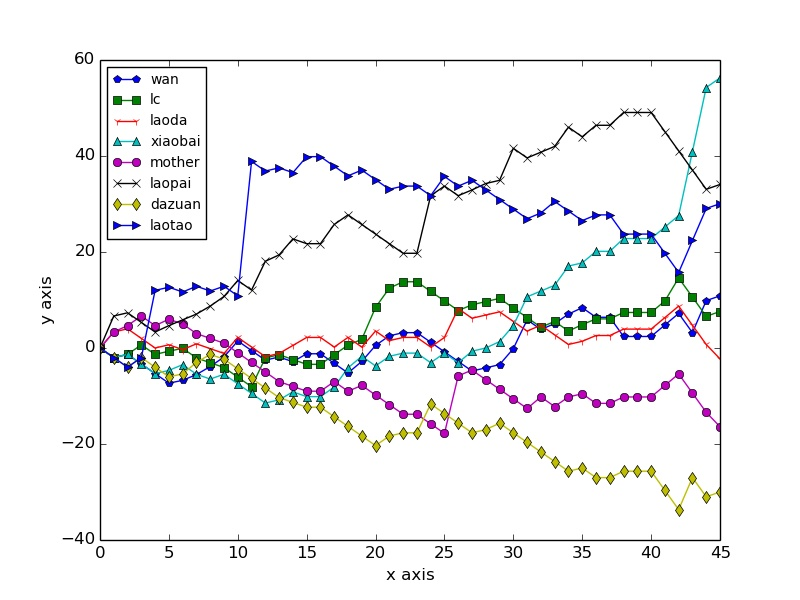
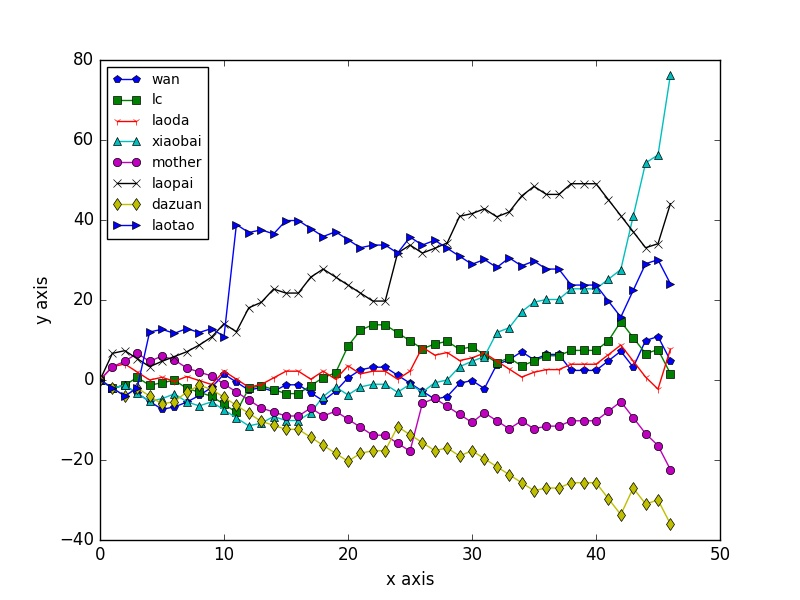
update

diff --git a/README.md b/README.md
@@ -1,23 +1,43 @@
 # E cup guess competition report
 ## real-time ranking
-2016-07-01 14:10:51
+2016-07-02 12:01:49
 
 |rank|name|score|win|loss|
 |:---:|:---:|:---:|:---:|:---:|
-|1|xiaobai|56.27|58%|24%|
-|2|laopai|34.07|50%|32%|
-|3|laotao|30.07|37%|46%|
-|4|wan|10.87|46%|37%|
-|5|lc|7.60|47%|36%|
-|6|laoda|-2.27|44%|38%|
-|7|mother|-16.40|31%|51%|
-|8|dazuan|-30.00|26%|57%|
+|1|xiaobai|76.27|59%|24%|
+|2|laopai|44.07|51%|32%|
+|3|laotao|24.07|36%|47%|
+|4|laoda|7.73|46%|37%|
+|5|wan|4.87|45%|38%|
+|6|lc|1.60|46%|37%|
+|7|mother|-22.40|30%|52%|
+|8|dazuan|-36.00|25%|58%|
 
 ## Pond
-528.80
+518.80
 
 ## History
 ![image](https://github.com/Anserw/E_Cup/blob/master/plot.jpg)
+### 2016070203 Welsh 3 : 1 Belgium
+- handicap: 0.5 / 1
+- scorer: laotao
+- owners:
+ - Welsh: xiaobai
+ - Belgium: lc
+
+
+|name|guess|score change|
+|:---:|:---:|:---:|
+|wan|Belgium|-6.00|
+|lc|Belgium|-6.00|
+|laoda|Welsh|10.00|
+|xiaobai|Welsh|20.00|
+|mother|Belgium|-6.00|
+|laopai|Welsh|10.00|
+|dazuan|Belgium|-6.00|
+|laotao|Belgium|-6.00|
+|Pond|..|-10.00|
+
 ### 2016063003 Poland 1 : 1 Portugal
 - handicap: 0 / 0.5
 - scorer: laotao
@@ -198,26 +218,6 @@
 |laotao|Poland|0.00|
 |Pond|..|0.00|
 
-### 2016062303 Sweden 0 : 1 Belgium
-- handicap: 0.5
-- scorer: laotao
-- owners:
- - Sweden: wan
- - Belgium: lc
-
-
-|name|guess|score change|
-|:---:|:---:|:---:|
-|wan|Belgium|1.33|
-|lc|Belgium|1.33|
-|laoda|Belgium|0.67|
-|xiaobai|Belgium|0.67|
-|mother|Belgium|0.67|
-|laopai|Sweden|-2.00|
-|dazuan|Belgium|0.67|
-|laotao|Sweden|-2.00|
-|Pond|..|-1.33|
-
 ### 2016062303 Italy 0 : 1 Ireland
 - handicap: -0.5 / 0
 - scorer: laotao
@@ -237,6 +237,26 @@
 |dazuan|Italy|-2.00|
 |laotao|Ireland|1.20|
 |Pond|..|-2.40|
+
+### 2016062303 Sweden 0 : 1 Belgium
+- handicap: 0.5
+- scorer: laotao
+- owners:
+ - Sweden: wan
+ - Belgium: lc
+
+
+|name|guess|score change|
+|:---:|:---:|:---:|
+|wan|Belgium|1.33|
+|lc|Belgium|1.33|
+|laoda|Belgium|0.67|
+|xiaobai|Belgium|0.67|
+|mother|Belgium|0.67|
+|laopai|Sweden|-2.00|
+|dazuan|Belgium|0.67|
+|laotao|Sweden|-2.00|
+|Pond|..|-1.33|
 
 ### 2016062300 Hungary 3 : 3 Portugal
 - handicap: 1.5 / 1
@@ -278,26 +298,6 @@
 |laotao|Austria|-2.00|
 |Pond|..|-4.00|
 
-### 2016062203 Czech 0 : 2 Turkey
-- handicap: 0.5 / 0
-- scorer: laotao
-- owners:
- - Czech: lc
- - Turkey: laopai
-
-
-|name|guess|score change|
-|:---:|:---:|:---:|
-|wan|Turkey|6.00|
-|lc|Czech|-2.00|
-|laoda|Czech|-2.00|
-|xiaobai|Turkey|6.00|
-|mother|Czech|-2.00|
-|laopai|Czech|-2.00|
-|dazuan|Czech|-2.00|
-|laotao|Czech|-2.00|
-|Pond|..|0.00|
-
 ### 2016062203 Croatia 2 : 1 Spain
 - handicap: 0.5
 - scorer: laotao
@@ -318,25 +318,25 @@
 |laotao|Croatia|1.20|
 |Pond|..|-1.20|
 
-### 2016062200 Ukraine 0 : 1 Poland
-- handicap: 0.5
+### 2016062203 Czech 0 : 2 Turkey
+- handicap: 0.5 / 0
 - scorer: laotao
 - owners:
- - Ukraine: dazuan
- - Poland: xiaobai
+ - Czech: lc
+ - Turkey: laopai
 
 
 |name|guess|score change|
 |:---:|:---:|:---:|
-|wan|Poland|0.67|
-|lc|Poland|0.67|
-|laoda|Poland|0.67|
-|xiaobai|Poland|1.33|
-|mother|Ukraine|-2.00|
-|laopai|Poland|0.67|
-|dazuan|Poland|1.33|
-|laotao|Ukraine|-2.00|
-|Pond|..|-1.33|
+|wan|Turkey|6.00|
+|lc|Czech|-2.00|
+|laoda|Czech|-2.00|
+|xiaobai|Turkey|6.00|
+|mother|Czech|-2.00|
+|laopai|Czech|-2.00|
+|dazuan|Czech|-2.00|
+|laotao|Czech|-2.00|
+|Pond|..|0.00|
 
 ### 2016062200 NorthernIreland 0 : 1 Germany
 - handicap: 1.5
@@ -357,6 +357,26 @@
 |dazuan|Germany|-2.00|
 |laotao|Germany|-2.00|
 |Pond|..|-3.33|
+
+### 2016062200 Ukraine 0 : 1 Poland
+- handicap: 0.5
+- scorer: laotao
+- owners:
+ - Ukraine: dazuan
+ - Poland: xiaobai
+
+
+|name|guess|score change|
+|:---:|:---:|:---:|
+|wan|Poland|0.67|
+|lc|Poland|0.67|
+|laoda|Poland|0.67|
+|xiaobai|Poland|1.33|
+|mother|Ukraine|-2.00|
+|laopai|Poland|0.67|
+|dazuan|Poland|1.33|
+|laotao|Ukraine|-2.00|
+|Pond|..|-1.33|
 
 ### 2016062103 Russia 0 : 3 Welsh
 - handicap: 0
